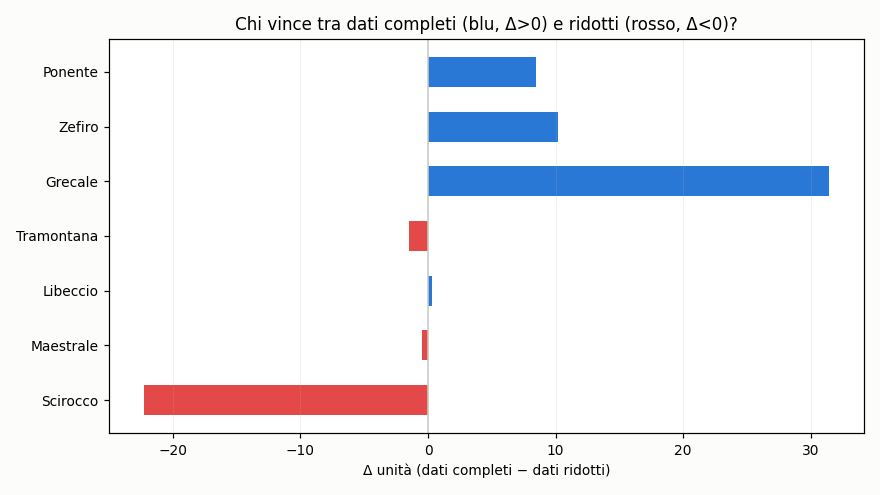
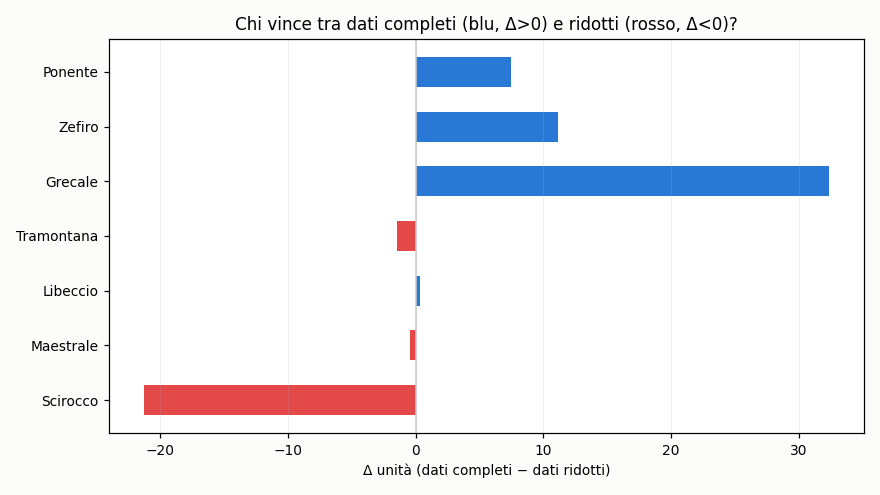
aggiornamento 2026-07-25 15:46 UTC

diff --git a/README.md b/README.md
@@ -37,9 +37,9 @@ scala in unità). Non indichiamo quale.
 
 ## Grafici
 
-![Coppie: dati completi vs ridotti](https://raw.githubusercontent.com/Kitem19/ippica-track-record/main/charts/equity_pairs.png?v=329fb113)
+![Coppie: dati completi vs ridotti](https://raw.githubusercontent.com/Kitem19/ippica-track-record/main/charts/equity_pairs.png?v=0236e315)
 
-![Delta per coppia](https://raw.githubusercontent.com/Kitem19/ippica-track-record/main/charts/coppie_delta.png?v=0b39a9bd)
+![Delta per coppia](https://raw.githubusercontent.com/Kitem19/ippica-track-record/main/charts/coppie_delta.png?v=477570a2)
 
 ### Come leggere i grafici
 
@@ -56,34 +56,34 @@ scala in unità). Non indichiamo quale.
 
 _Poche giornate: numeri ancora rumorosi, si conclude a fine fase (31/7)._
 
-- **Scirocco**: dati ridotti avanti di 22,3u — qui gli extra non aiutano
+- **Scirocco**: dati ridotti avanti di 21,3u — qui gli extra non aiutano
 - **Maestrale**: in sostanziale pareggio — troppo presto per dire
 - **Libeccio**: in sostanziale pareggio — troppo presto per dire
 - **Tramontana**: in sostanziale pareggio — troppo presto per dire
-- **Grecale**: dati completi avanti di 31,4u
-- **Zefiro**: dati completi avanti di 10,2u
-- **Ponente**: dati completi avanti di 8,4u
+- **Grecale**: dati completi avanti di 32,4u
+- **Zefiro**: dati completi avanti di 11,1u
+- **Ponente**: dati completi avanti di 7,4u
 
 ## Classifica (conteggio ufficiale)
 
 | Sistema | Cassa (u) | P/L (u) | Selezioni | Escluse | Stato |
 |---|---|---|---|---|---|
-| Grecale | 31,2 | +11,2 | 292 | 4 | 🟢 |
-| Scirocco-B | 22,2 | +2,2 | 218 | 0 | 🟢 |
-| Zefiro | 9,7 | -10,3 | 254 | 5 | 🟢 |
-| Ponente | 7,5 | -12,5 | 203 | 28 | 🟢 |
-| Tramontana-B | 1,2 | -18,8 | 323 | 1 | ⏸ |
-| Maestrale-B | 0,0 | -20,0 | 100 | 223 | 🛑 |
-| Scirocco | 0,0 | -20,1 | 80 | 233 | 🛑 |
-| Grecale-B | 0,0 | -20,2 | 137 | 163 | 🛑 |
-| Tramontana | 0,0 | -20,3 | 45 | 295 | 🛑 |
+| Grecale | 32,1 | +12,1 | 293 | 4 | 🟢 |
+| Scirocco-B | 21,2 | +1,2 | 219 | 0 | 🟢 |
+| Zefiro | 10,7 | -9,3 | 255 | 5 | 🟢 |
+| Ponente | 6,5 | -13,5 | 204 | 28 | 🟢 |
+| Tramontana-B | 1,2 | -18,8 | 323 | 2 | ⏸ |
+| Maestrale-B | 0,0 | -20,0 | 100 | 224 | 🛑 |
+| Scirocco | 0,0 | -20,1 | 80 | 234 | 🛑 |
+| Grecale-B | 0,0 | -20,2 | 137 | 164 | 🛑 |
+| Tramontana | 0,0 | -20,3 | 45 | 296 | 🛑 |
 | Zefiro-B | 0,0 | -20,5 | 143 | 65 | 🛑 |
-| Maestrale | 0,0 | -20,5 | 104 | 244 | 🛑 |
-| Libeccio | 0,0 | -20,6 | 181 | 152 | 🛑 |
-| Libeccio-B | 0,0 | -20,9 | 119 | 168 | 🛑 |
-| Ponente-B | 0,0 | -21,0 | 63 | 81 | 🛑 |
+| Maestrale | 0,0 | -20,5 | 104 | 245 | 🛑 |
+| Libeccio | 0,0 | -20,6 | 181 | 153 | 🛑 |
+| Libeccio-B | 0,0 | -20,9 | 119 | 169 | 🛑 |
+| Ponente-B | 0,0 | -21,0 | 63 | 82 | 🛑 |
 
-_Aggiornato: 25/07 17:41_
+_Aggiornato: 25/07 17:46_
 ---
 *Nessuna delle informazioni qui pubblicate costituisce consiglio di gioco.
 Il gioco può causare dipendenza — 18+.*
